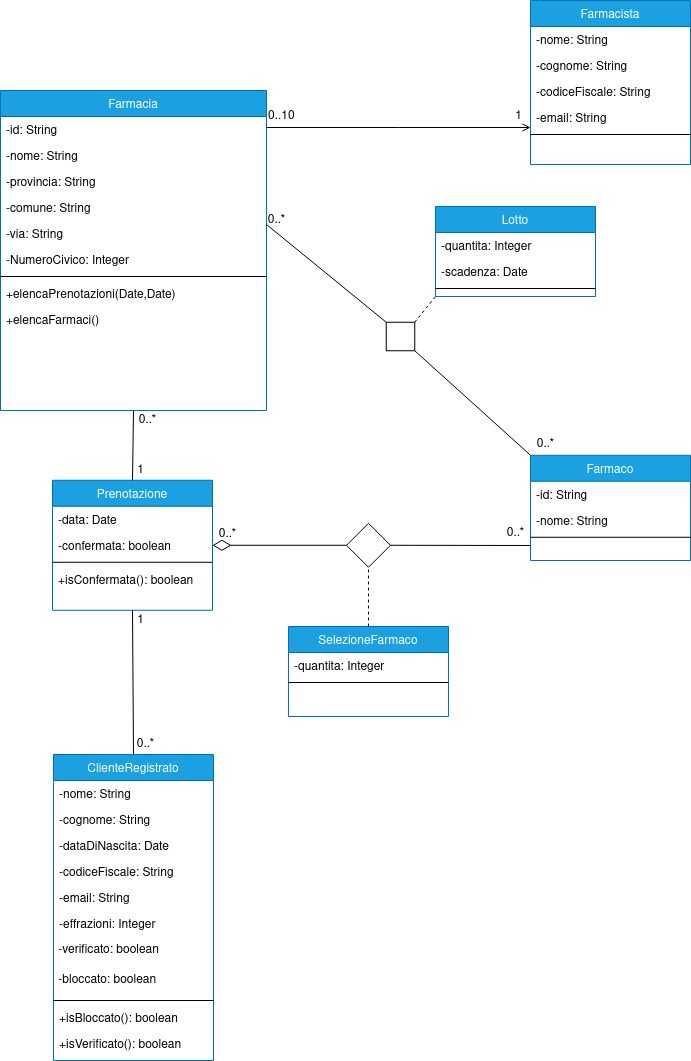
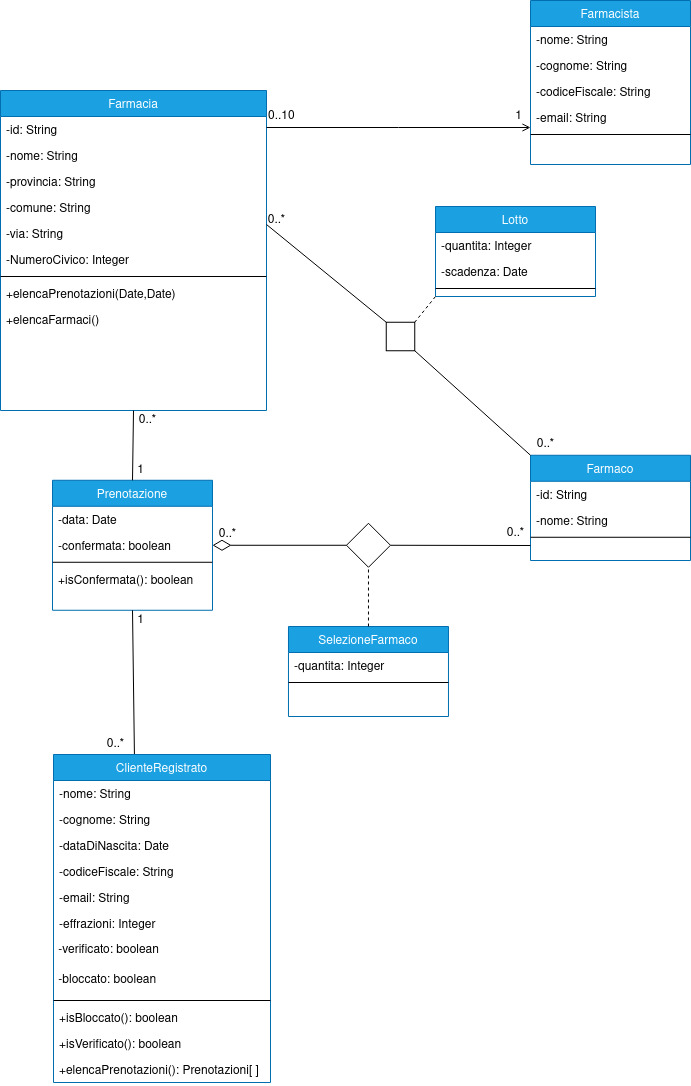
fix dominio funzione elencaPrenotazioni

diff --git a/latex/progetto.tex b/latex/progetto.tex
@@ -117,7 +117,7 @@ server delle farmacie).
 
 \begin{figure}[h!]
     \begin{center}
-        \includegraphics[scale=0.53]{immagini/DominioCliente-progettazione.png}
+        \includegraphics[scale=0.53]{immagini/DominioCliente-progettazione.jpg}
     \end{center}
 \end{figure}
 
